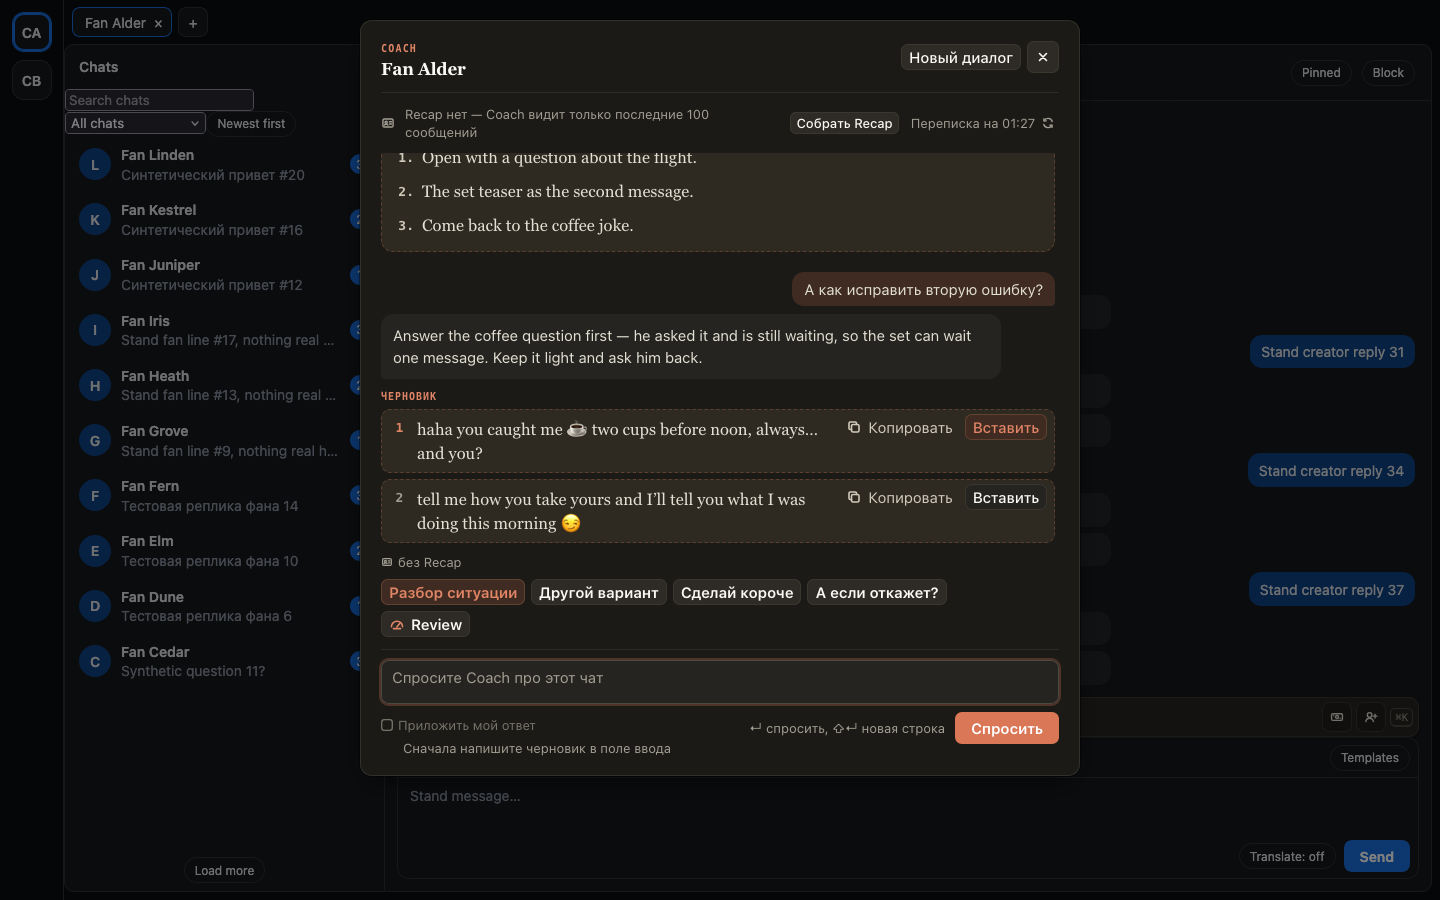
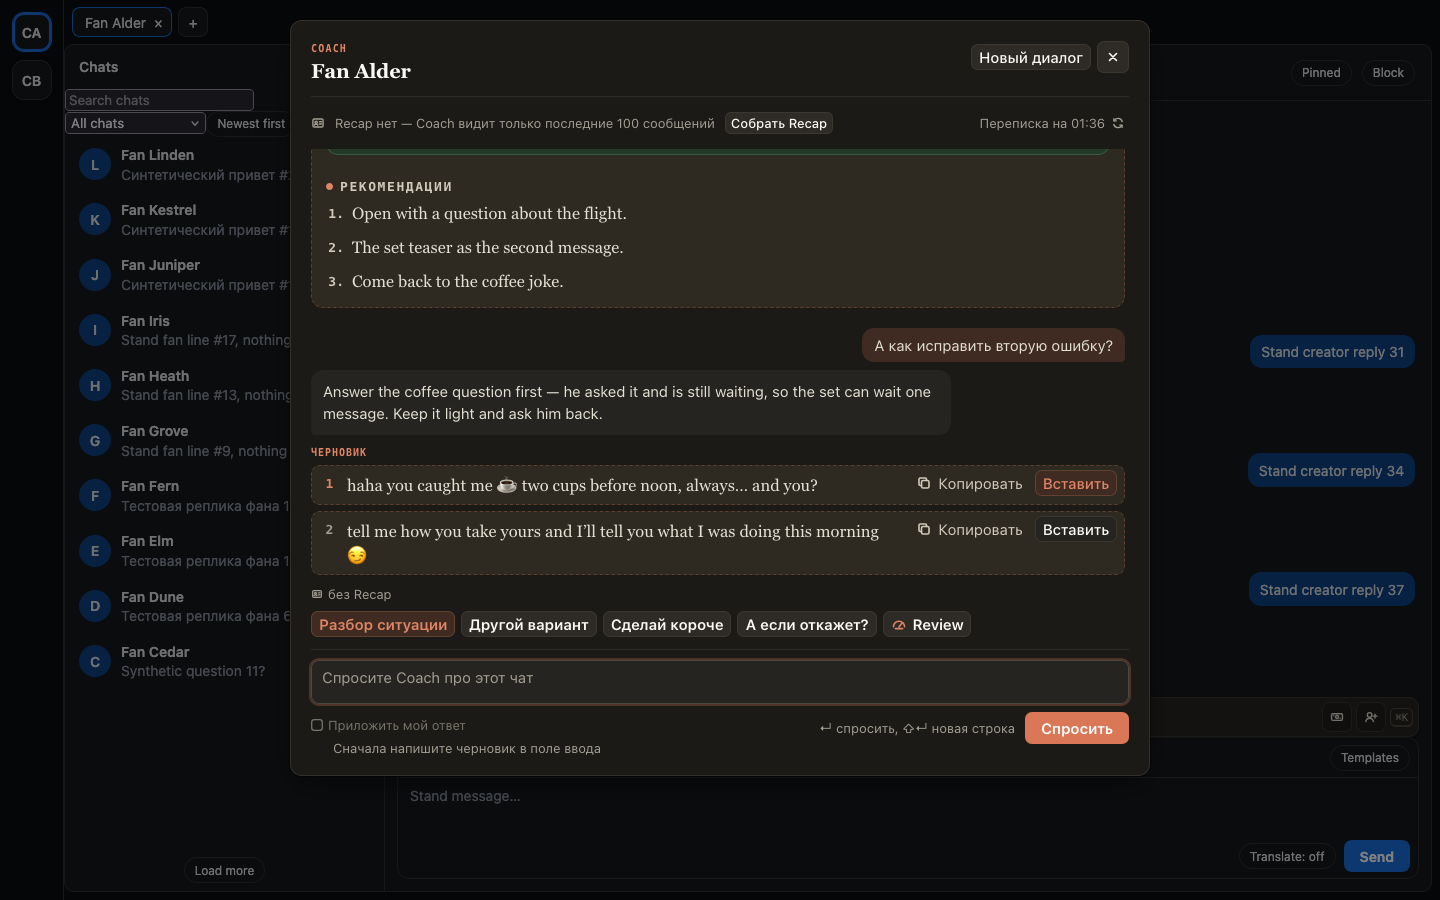
feat(coach): a wider window — 860 px, prose at its old measure
The owner, 2026-10-23: «мб пошире коача в целом». Coach's window is 860 px
(720 before), still never wider than the browser's window less 20 px at
each side. A Review's blocks and the drafts take the width; an answer's
prose keeps the 640 px measure it had, so its lines do not grow long.

diff --git a/packages/ui/src/overlays/coach/index.tsx b/packages/ui/src/overlays/coach/index.tsx
@@ -1,7 +1,8 @@
 // @cg/ui/overlays/coach — the Coach window (ui-design §3.7, §4.19, §10;
-// decision X63: the old Fansly extension's Coach — a 720 px window centred
-// over the chat on a flat scrim, the owner's ruling of 2026-10-19; it replaces
-// the 320 px side panel of §9.1 (б)). AI-080…AI-100.
+// decision X63: the old Fansly extension's Coach — a window centred over the
+// chat on a flat scrim, the owner's ruling of 2026-10-19; it replaces the
+// 320 px side panel of §9.1 (б)). 860 px wide since 2026-10-23 (the owner: «мб
+// пошире коача в целом»), 720 before. AI-080…AI-100.
 // The session of the open chat from `CoachVM`, laid out as the old window:
 // the head (the micro-caps «Coach» over the fan's name; «Новый диалог» and ×),
 // the topbar (what Coach reads: the fan's Recap — «☑ Учитывать Recap · 3 д
@@ -87,8 +88,12 @@ const unsent = new Map<string, string>();
 /** How many chats keep an unasked question. */
 export const UNSENT_QUESTIONS_MAX = 50;
 
-/** The window: as wide as the old one, top-inset, at most this share of the window's height and never taller (X63). */
-export const COACH_WINDOW = { width: 720, heightShare: 0.84, maxHeight: 860, inset: 20 } as const;
+/**
+ * The window: top-inset, at most this share of the window's height and never taller (X63); never wider than the browser's
+ * window less the inset at each side. 860 px since 2026-10-23 (720 before, as the old one): a Review's blocks and the
+ * drafts take the width; prose keeps the measure it had (`proseMax`), so its lines do not grow long.
+ */
+export const COACH_WINDOW = { width: 860, proseMax: 640, heightShare: 0.84, maxHeight: 860, inset: 20 } as const;
 
 /**
  * Drops every unasked question. For the composition root when the person
@@ -672,7 +677,7 @@ export const COACH_CSS = `
 ${overlayRootCss('coach', 'panel')}
 ${/* The old window's scrim: flat, no blur; a press on it closes Coach as Esc does. */ ''}
 .cg-co-scrim { position: fixed; inset: 0; background: var(--cg-scrim); }
-${/* The window: 720 px over the middle of the host's container, 20 px from its top, a fixed height whose feed scrolls. */ ''}
+${/* The window: 860 px over the middle of the host's container — never wider than the browser's window less 20 px at each side —, 20 px from its top, a fixed height whose feed scrolls. */ ''}
 .cg-coach {
   --cg-co-half: min(${COACH_WINDOW.width / 2}px, calc(50vw - ${COACH_WINDOW.inset}px));
   position: fixed; top: ${COACH_WINDOW.inset}px; translate: -50% 0; container: cg / inline-size;
@@ -729,6 +734,8 @@ ${/* ── the conversation: a log of its own that scrolls; questions right, an
 .cg-co__a { display: flex; flex-direction: column; align-items: flex-start; gap: 8px; min-width: 0; }
 .cg-co__a > * { max-width: 92%; }
 .cg-co__a > .cg-co__drafts, .cg-co__a > .cg-card, .cg-co__a > .cg-co__debug { align-self: stretch; max-width: none; }
+${/* The answer's prose keeps the measure of the 720 px window: on the wider one its lines do not grow long; drafts and cards take the width. */ ''}
+.cg-co__a > .cg-co__bubble { max-width: min(92%, ${COACH_WINDOW.proseMax}px); }
 .cg-co__bubble { margin: 0; padding: 10px 12px; border-radius: 12px 12px 12px 4px; background: var(--cg-sunk); color: var(--cg-ink); font-size: var(--cg-text-base); line-height: 1.5; overflow-wrap: anywhere; min-width: 0; }
 .cg-co__q .cg-co__bubble { max-width: 82%; padding: 8px 12px; border-radius: 12px 12px 4px 12px; background: var(--cg-clay-bg); line-height: 18px; white-space: pre-wrap; }
 .cg-co__with { display: inline-flex; align-items: center; gap: 4px; font-size: var(--cg-text-xs); color: var(--cg-ink-muted); }

diff --git a/packages/testing/e2e/see/scenarios/review.see.ts b/packages/testing/e2e/see/scenarios/review.see.ts
@@ -1,9 +1,12 @@
 // Review as a turn of Coach (1.51.0): Coach's window with its «Review» chip, the Review's card in the thread, then a
-// question about it — answered with the Review in Coach's history.
+// question about it — answered with the Review in Coach's history. At a normal window and a narrow one (Coach is 860 px
+// wide, never wider than the window less its margins).
 
 import { SEE_AI_TEXTS, scenario } from '../kit';
 
 const FIELD = '.cg-co__ask textarea, .cg-co__ask input';
+/** Window widths: the mockup's, and one where Coach meets the window's margins (a 1040 px window). */
+const WIDTHS = [1440, 1040] as const;
 
 /** Coach's answer to the question about the Review's second mistake (the coffee question it left unanswered). */
 const ABOUT_THE_MISTAKE =
@@ -12,20 +15,31 @@ const ABOUT_THE_MISTAKE =
 scenario(
   'review',
   async (s) => {
+    const context = await s.browser.getWindowHandle();
     await s.ready();
-    await s.press(/^Coach/);
-    await s.browser.waitUntil(() => s.has('panel', FIELD), { timeout: 10_000, timeoutMsg: 'the Coach window did not open' });
-    await s.press(/^Review/, 'panel', '.cg-co__chip');
-    await s.see('panel', 'the conversation is alive', 30_000);
-    await s.shot('review');
-
-    // A question about it: the Review goes to Coach as history, so the answer is about its mistake.
     await s.hub.command({ op: 'config', patch: { aiTexts: { ...SEE_AI_TEXTS, 'coach-chat': ABOUT_THE_MISTAKE } } });
-    await s.h.ours('panel', FIELD).click();
-    await s.keys('А как исправить вторую ошибку?');
-    await s.keys(s.Key.Enter);
-    await s.see('panel', 'Answer the coffee question first', 30_000);
-    await s.shot('review-question');
+    for (const width of WIDTHS) {
+      await s.browser.browsingContextSetViewport({ context, viewport: { width, height: 900 } });
+      await s.wait(300);
+      if (await s.has('panel', FIELD)) {
+        // The window is open from the width before: a clean dialog («Новый диалог» asks first).
+        await s.press(/^Новый диалог/, 'panel', '.cg-co__reset');
+        await s.press(/^Точно начать заново/, 'panel', '.cg-co__reset');
+      } else {
+        await s.press(/^Coach/);
+        await s.browser.waitUntil(() => s.has('panel', FIELD), { timeout: 10_000, timeoutMsg: 'the Coach window did not open' });
+      }
+      await s.press(/^Review/, 'panel', '.cg-co__chip');
+      await s.see('panel', 'the conversation is alive', 30_000);
+      await s.shot(`review-${width}`);
+
+      // A question about it: the Review goes to Coach as history, so the answer is about its mistake.
+      await s.h.ours('panel', FIELD).click();
+      await s.keys('А как исправить вторую ошибку?');
+      await s.keys(s.Key.Enter);
+      await s.see('panel', 'Answer the coffee question first', 30_000);
+      await s.shot(`review-question-${width}`);
+    }
   },
   { sites: ['chatspace', 'fansly'] },
 );

diff --git a/changes/review-in-coach.md b/changes/review-in-coach.md
@@ -11,7 +11,8 @@ sites: chatspace, fansly
 с «Копировать» и «Ещё раз».
 
 Coach видит этот Review. Сразу после него можно спросить «а как исправить вторую ошибку?» — и получить совет с
-готовым черновиком. «Новый диалог» начинает с чистого листа, вместе с Review.
+готовым черновиком. «Новый диалог» начинает с чистого листа, вместе с Review. Само окно Coach стало шире: Review и
+черновикам просторнее, а строки совета остались прежней длины.
 
 Полоса стала короче: Reply с тонами │ Fix │ Hi, Ping │ Voice │ Recap, Coach. Voice стоит сразу после Ping, за
 перегородкой. На узком поле ввода кнопки дольше остаются словами, а полоса реже уезжает вбок.
